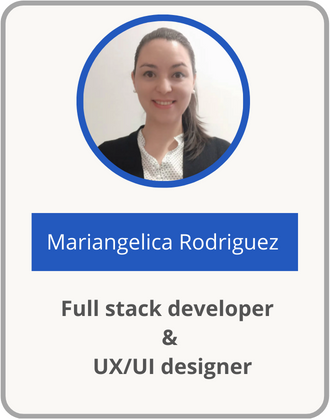
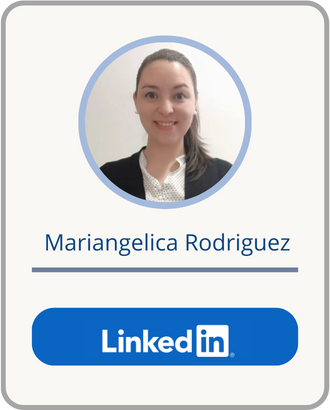
add/wireframes in the design section

diff --git a/README.md b/README.md
@@ -228,30 +228,59 @@ Create your own pokemons, customize their appearance, attributes.
 ## Design: 
 
 <details>
-  <summary>&nbsp; &nbsp; <img src="src/assets/images/wireframe.png" title="cybersecurity" alt="cybersecurity Logo" style="width:32px;"/> &nbsp; &nbsp; Wireframes:</summary>
+  <summary>&nbsp; &nbsp; <img src="src/assets/images/wireframe.png" style="width:32px;"/> &nbsp; &nbsp; Wireframes:</summary>
 
 <br>
 
-xxxxxxxxxx
+### Details: 
 
-<img src="assets/icon_dataScience_plus.png" title="Data Science" alt="Data Science Logo" style="height: 107px; width: 102px;"/>
-
-<br>
-<br>
-
-### Details:
-
-<br>
-
-<div style="display:flex; flex-wrap:wrap; gap:2rem; align-items:center; padding:1rem; background-color:black">
-
+<div style="display:flex; flex-direction: column; gap:2rem; padding:1rem;">
+  <div style="display:flex; flex-wrap:wrap; justify-content:center; align-items:center; gap:2rem; padding:1rem; background-color:black">
+  <img src="src/assets/images/wireframeMemoryGame.webp" title="Wireframe of the memory game" alt="Memory game wireframe" style="width: min-width: 150px; width: 15%"/>
+  <img src="src/assets/images/wireframeWinAlert.webp" title="Wireframe of the memory game alert" alt="Memory game alert wireframe" style="width: min-width: 150px; width: 15%"/>
   <div>
-
-### Components
-
- - xxxxxxxxxxxx
+    <h2>Memory game | Featured components:</h2>
+    <p><strong>Movements Counter:</strong> To know how many movements have been made.</p>
+    <p><strong>Reset button:</strong> Allows the user to restart the game with the current cards.</p>
+    <p><strong>Pop-up:</strong> Alert showing game data and option buttons.</p>
+    <a href="https://www.gromarant.com/">See more details</a>
   </div>
-</div>
+  </div>
+
+  <div style="display:flex; flex-wrap:wrap; justify-content:center; align-items:center; gap:2rem; padding:1rem; background-color:#4b5360">
+  <div>
+    <h2>Search Page:</h2>
+    <p><strong>Search engine:</strong> Allows users to search for matches on Pokémon names.</p>
+    <p><strong>Go up button:</strong>  To scroll up.</p>
+    <p><strong>Pokemon searched and created lists.</strong></p>
+    <a href="https://www.gromarant.com/">See more details</a>
+  </div>
+  <img src="src/assets/images/wireframeSearching.webp" title="Wireframe of search page" alt="Search page wireframe" style="width: min-width: 150px; width: 15%"/>
+  <img src="src/assets/images/wireframeSearch.webp" title="Wireframe of search page lists" alt="Search page lists wireframe" style="width: min-width: 150px; width: 15%"/>
+  </div>
+
+  <div style="display:flex; flex-wrap:wrap; justify-content:center; align-items:center; gap:2rem; padding:1rem; background-color:black">
+  <img src="src/assets/images/wireframeCreate.webp" title="Wireframe of create page" alt="Create page wireframe" style="width: min-width: 150px; width: 15%"/>
+  <img src="src/assets/images/wireframeErrorAlert.webp" title="Wireframe of create page alert" alt="Create page error wireframe" style="width: min-width: 150px; width: 15%"/>
+  <div>
+    <h2>Create page:</h2>
+    <p><strong>Form:</strong> Made with react-hook-form.</p>
+    <p><strong>Error Pop-up:</strong> Allows the user to fill out form fields correctly.</p>
+    <a href="https://www.gromarant.com/">See more details</a>
+  </div>
+  </div>
+
+  <div style="display:flex; flex-wrap:wrap; justify-content:center; align-items:center; gap:2rem; padding:1rem; background-color:#4b5360">
+  <div>
+    <h2>Pokemon details Page:</h2>
+    <p><strong>Pokémon details card:</strong> With more information about the selected Pokémon.</p>
+    <p><strong>Search button:</strong> To come back to the search page.</p>
+    <p><strong>Pokemon searched and created lists.</strong></p>
+    <a href="https://www.gromarant.com/">See more details</a>
+  </div>
+  <img src="src/assets/images/wireframeDetails.webp" title="Wireframe of Pokemon details page" alt="Pokemon details page wireframe" style="width: min-width: 150px; width: 15%"/>
+  </div>
+<div>
 </details>
 
 ---
@@ -373,7 +402,7 @@ xxxxxxxxxx
 
 <div style="display:flex; flex-wrap:wrap; gap:1rem; justify-content:center; align-items:center; padding:1rem;">
   <a href="https://www.linkedin.com/in/judit-r-ab8734b0/">
-    <img src="assets/collaborator_card_mariangelica.png" style="width:135px; height:190px;" alt="Full Stack Developer | Mariangelica Rodriguez" title="Full Stack Developer | Mariangelica Rodriguez"/>
+    <img src="src/assets/images/professionalCard.png" style="width:135px; border-radius: 10px;" alt="Full Stack Developer | Mariangelica Rodriguez" title="Full Stack Developer | Mariangelica Rodriguez"/>
   </a>
 </div>
 
